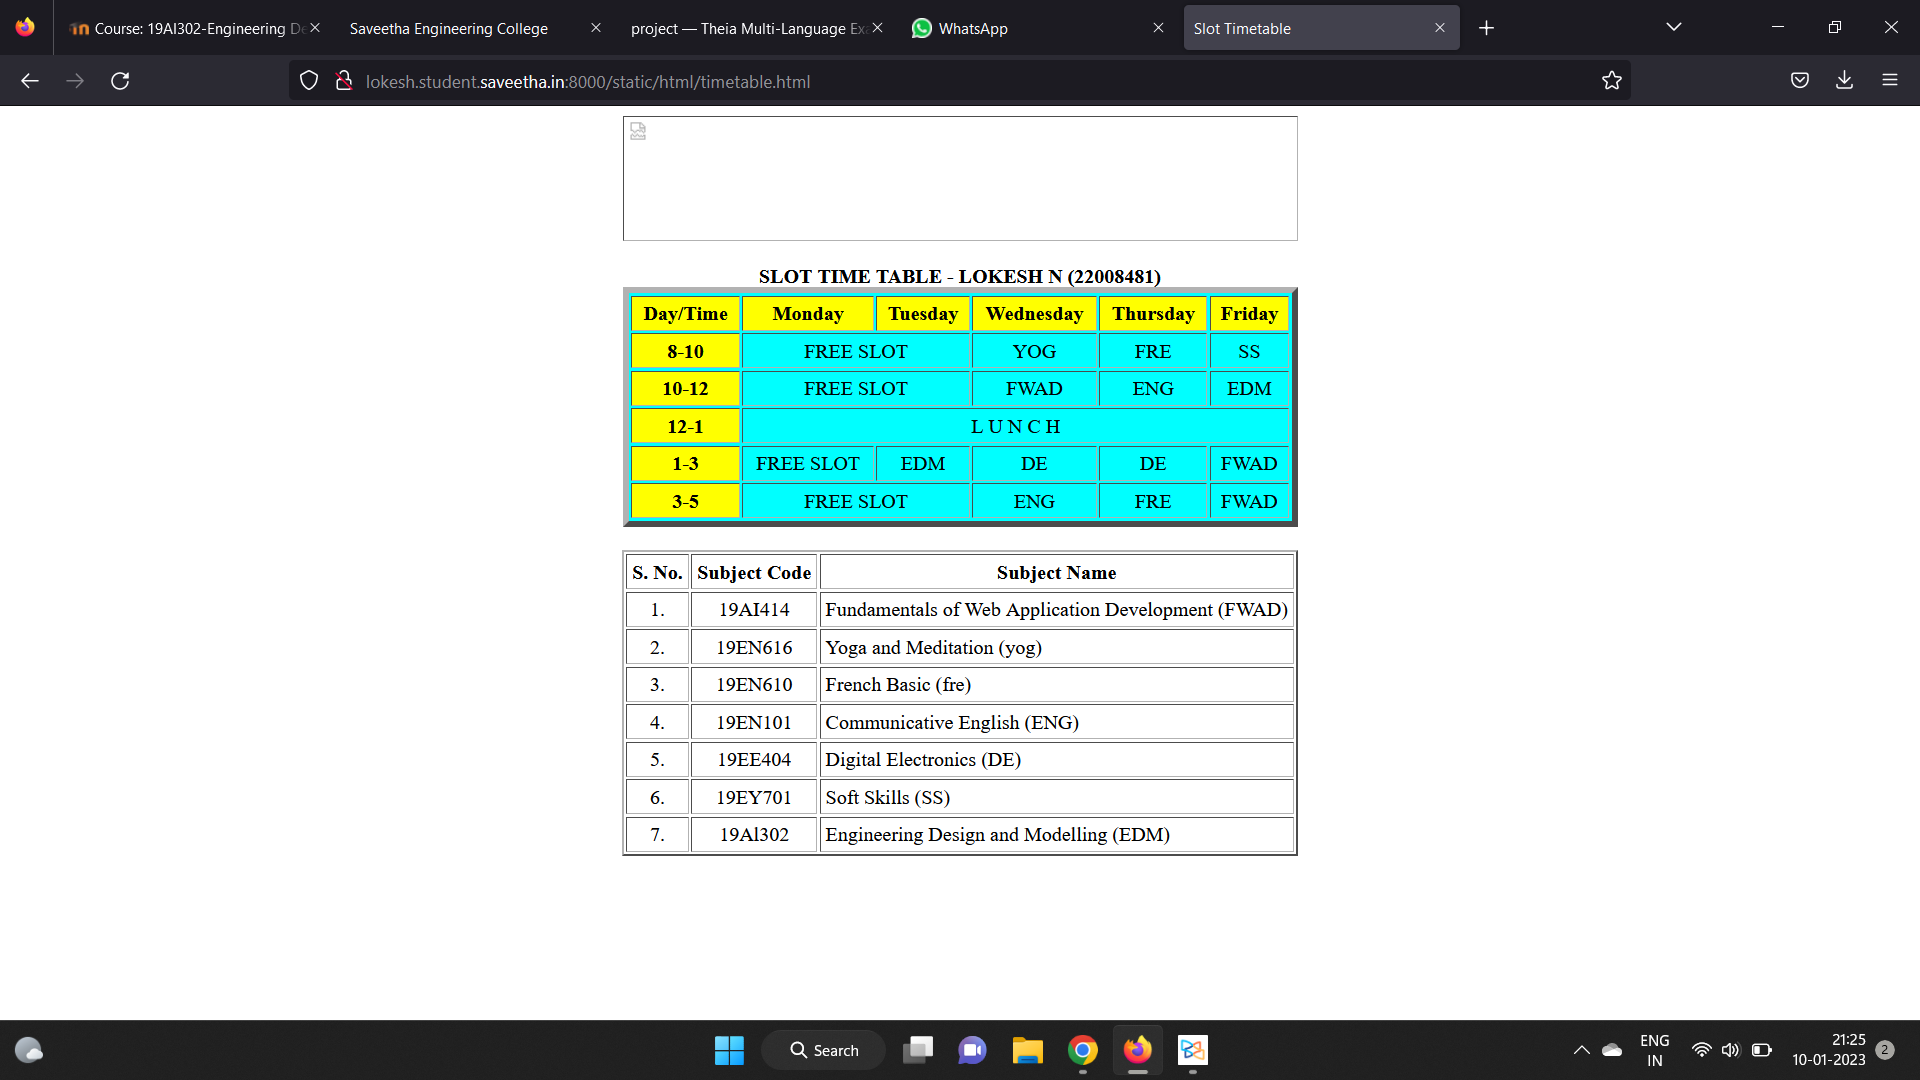
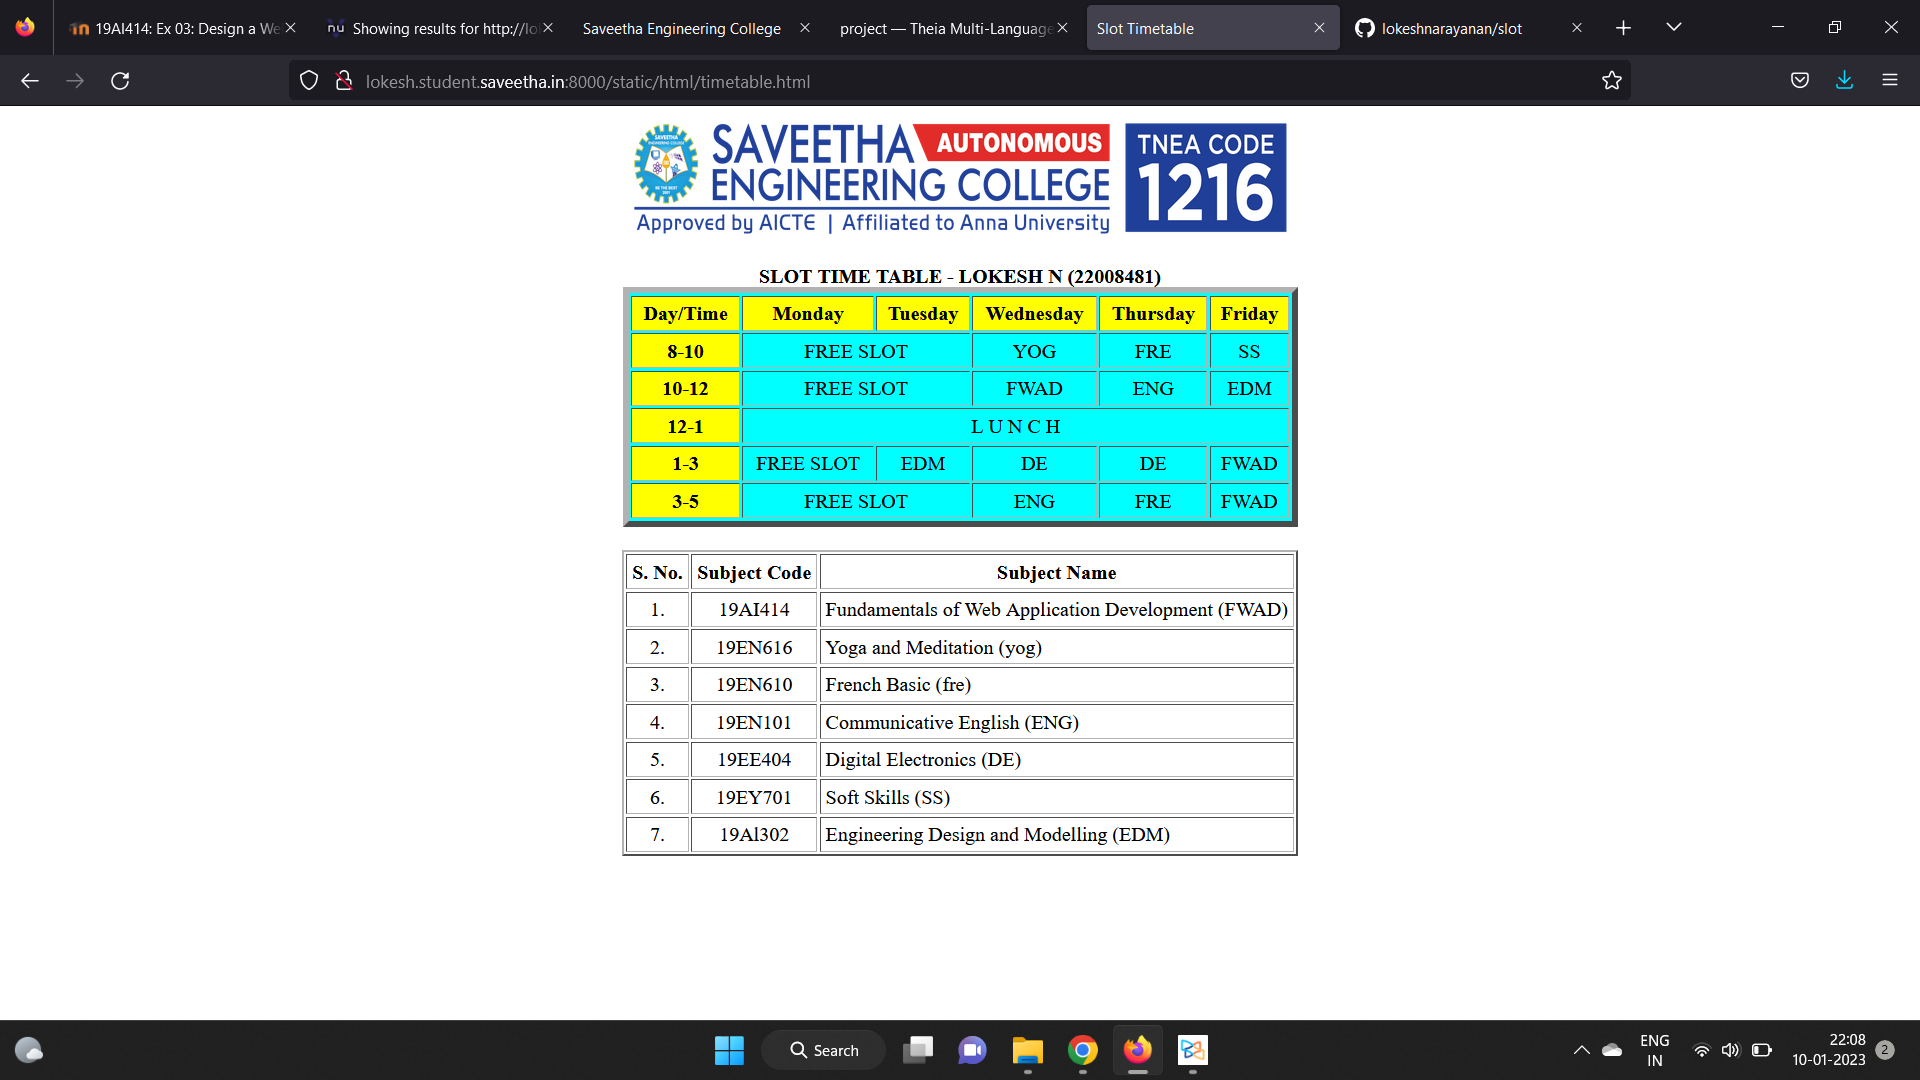
Success

diff --git a/README.md b/README.md
@@ -6,13 +6,124 @@ To Write a html webpage page to display your timetable.
 # ALGORITHM
 ### STEP 1
 create a simple table using table tag
+
 ### STEP 2
 Add header row using th tag
+
 ### STEP 3
 Add your timetable
+
 ### STEP 4
 Execute the program
 
 # CODE
+```
+<!DOCTYPE html>
+<html lang="en">
+<head>
+<title>Slot Timetable</title>
+</head>
+<body>
+<center>
+<img src="/static/images/logo.png" height="100" width="540">
+</center>
+<br>
+<table align="center" width="540" cellspacing="2" cellpadding="4" border="5" bgcolor="cyan">
+<caption><b>SLOT TIME TABLE - LOKESH N (22008481)</b></caption>
+<tr align="center">
+<th bgcolor="yellow">Day/Time</th>
+<th bgcolor="yellow">Monday</th>
+<th bgcolor="yellow">Tuesday</th>
+<th bgcolor="yellow">Wednesday</th>
+<th bgcolor="yellow">Thursday</th>
+<th bgcolor="yellow">Friday</th>
+</tr>
+<tr align="center">
+<th bgcolor="yellow">8-10</th>
+<td colspan="2">FREE SLOT</td>
+<td>YOG</td>
+<td>FRE</td>
+<td>SS</td>
+</tr>
+<tr align="center">
+<th bgcolor="yellow">10-12</th>
+<td colspan="2">FREE SLOT</td>
+<td>FWAD</td>
+<td>ENG</td>
+<td>EDM</td>
+</tr>
+<tr>
+<th bgcolor="yellow">12-1</th>
+<td colspan="5" align="center">L U N C H</td>
+</tr>
+<tr align="center">
+<th bgcolor="yellow">1-3</th>
+<td colspan="1"> FREE SLOT </td>
+<td>EDM</td>
+<td>DE</td>
+<td>DE</td>
+<td>FWAD</td>
+</tr>
+<tr align="center">
+<th bgcolor="yellow">3-5</th>
+<td colspan="2"> FREE SLOT </td>
+<td>ENG</td>
+<td>FRE</td>
+<td>FWAD</td>
+</tr>
+</table>
+<br>
+<table align="center" cellspacing="2" cellpadding="4" border="2">
+<tr align="center">
+<th>S. No.</th>
+<th>Subject Code</th>
+<th>Subject Name</th>
+</tr>
+<tr>
+<td align="center">1.</td>
+<td align="center">19AI414</td>
+<td>Fundamentals of Web Application Development (FWAD)</td>
+</tr>
+<tr>
+<td align="center">2.</td>
+<td align="center">19EN616</td>
+<td>Yoga and Meditation (yog)</td>
+</tr>
+<tr>
+<td align="center">3.</td>
+<td align="center">19EN610</td>
+<td>French Basic (fre)</td>
+</tr>
+<tr>
+<td align="center">4.</td>
+<td align="center">19EN101</td>
+<td>Communicative English (ENG)</td>
+</tr>
+<tr>
+<td align="center">5.</td>
+<td align="center">19EE404</td>
+<td>Digital Electronics (DE)</td>
+</tr>
+<tr>
+<td align="center">6.</td>
+<td align="center">19EY701</td>
+<td>Soft Skills (SS)</td>
+</tr>
+<tr>
+<td align="center">7.</td>
+<td align="center">19Al302</td>
+<td>Engineering Design and Modelling (EDM)</td>
+</tr>
+</table>
+</body>
+</html>
+```
 
 # OUPUT
+![OUTPUT](http://lokesh.student.saveetha.in:8000/static/images/out.png?raw=true)
+
+# HTML VALIDATOR
+![HTML VALIDATOR](http://lokesh.student.saveetha.in:8000/static/images/valid.png?raw=true)
+
+# RESULT
+The program for creating slot time table is completed successfully
